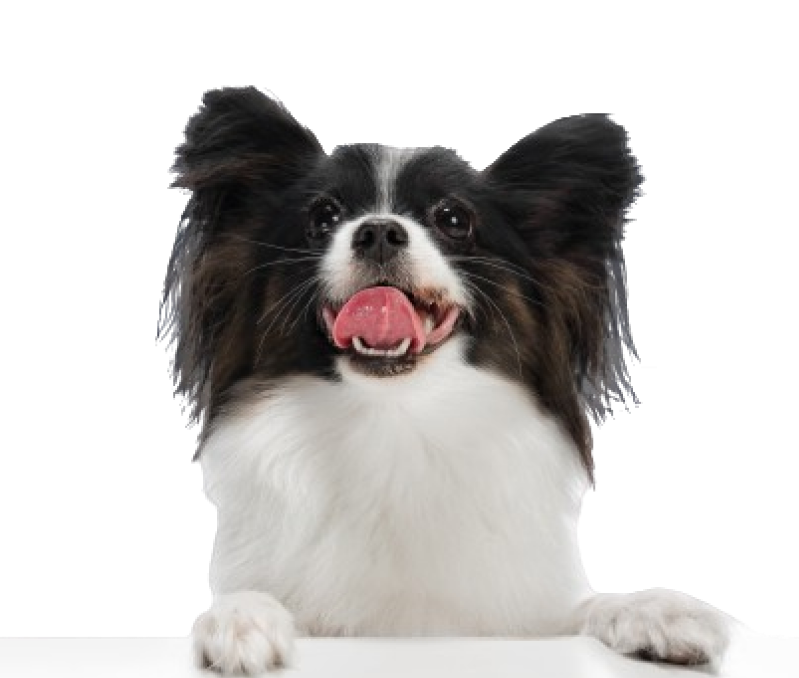
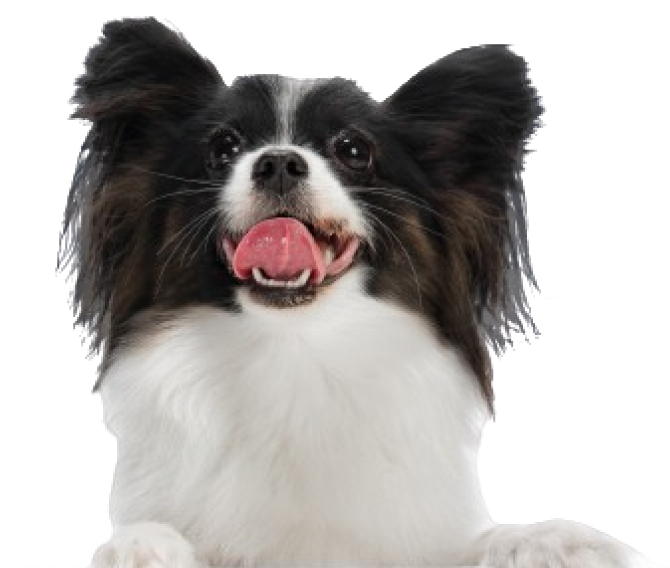
about page rough version

diff --git a/style.css b/style.css
@@ -9,14 +9,12 @@
 
 /* custom properties */
 :root {
-  --gradient-bg: linear-gradient(
-    148deg,
-    rgba(220, 243, 247, 1) 35%,
-    rgba(237, 222, 249, 1) 81%
-  );
+  --gradient-bg: linear-gradient(148deg, #dcf3f7 35%, #eddef9 81%);
 }
 
-/* Home page contents */
+/* ////////// */
+/* Home page */
+/* //////// */
 .homepage {
   background: var(--gradient-bg);
 }
@@ -53,7 +51,7 @@ nav ul li:hover {
 
 /* hiding the hamburger menu in bigger screens */
 .hamburger-menu {
-    display: none;
+  display: none;
 }
 
 /* main page contents */
@@ -62,7 +60,7 @@ nav ul li:hover {
   flex-direction: row;
   justify-content: center;
   gap: 50px;
-  margin: 40px 0;
+  margin: 40px 0 0 0;
 }
 
 .homepage-texts {
@@ -116,11 +114,11 @@ nav ul li:hover {
 
 /* homepage dog image */
 .main-page-image {
-  margin-top: 25px;
+  margin-top: 40px;
 }
 
 .dog-image {
-  margin-bottom: -35px;
+  margin: 0 0 -10px 0;
   max-width: 350px;
 }
 
@@ -133,13 +131,19 @@ nav ul li:hover {
     align-items: center;
     gap: 10px;
   }
-  
+
+  /* hiding the list in small screens and making the hamburger visible */
   ul li {
     display: none;
   }
   .hamburger-menu {
     display: flex;
     font-size: 30px;
+    transition: all 0.2s linear;
+  }
+  .hamburger-menu:hover {
+    cursor: pointer;
+    color: rgb(48, 48, 188);
   }
 
   .homepage-texts {
@@ -153,4 +157,45 @@ nav ul li:hover {
     margin-top: 0;
     border: 1px solid;
   }
+}
+
+/* /////////// */
+/* About Page */
+/* ///////// */
+.about-page {
+  background-color: yellow;
+  display: flex;
+  flex-direction: row;
+  justify-content: center;
+}
+
+.about-navigation {
+  display: flex;
+  flex-direction: row;
+  border-radius: 20px;
+  padding: 20px;
+  min-width: 60%;
+  margin: 40px 0 30px 0;
+  gap: 20px;
+  background: var(--gradient-bg);
+}
+
+.about-nav-card {
+  flex: 1;
+  display: flex;
+  padding: 10px 20px;
+  justify-content: center;
+  border-radius: 10px;
+  background-color: white;
+  align-items: center;
+  font-weight: 500;
+  transition: all 0.2s linear;
+}
+.about-nav-card:hover {
+  box-shadow: 2px 2px 6px #3f3f3f78;
+  background-color: #dcf3f7;
+  cursor: pointer;
+}
+.about-nav-card img {
+  width: 30px;
 }

diff --git a/index.html b/index.html
@@ -59,5 +59,36 @@
         </div>
       </div>
     </section>
+
+    <!-- About Page -->
+    <section class="about-page">
+      <!-- About page top navigation -->
+      <div class="about-navigation">
+        <div class="about-nav-card">
+          <img
+            src="images/navigation/nav1.png"
+            alt="about-page-nav-image1"
+          />&nbsp;
+          <p>Grooming</p>
+        </div>
+        <div class="about-nav-card">
+          <img
+            src="images/navigation/nav2.png"
+            alt="about-page-nav-image2"
+          />&nbsp;
+          <p>Training</p>
+        </div>
+        <div class="about-nav-card">
+          <img
+            src="images/navigation/nav3.png"
+            alt="about-page-nav-image3"
+          />&nbsp;
+          <p>Veterinary Care</p>
+        </div>
+      </div>
+      <div class="about-page-content">
+        
+      </div>
+    </section>
   </body>
 </html>
